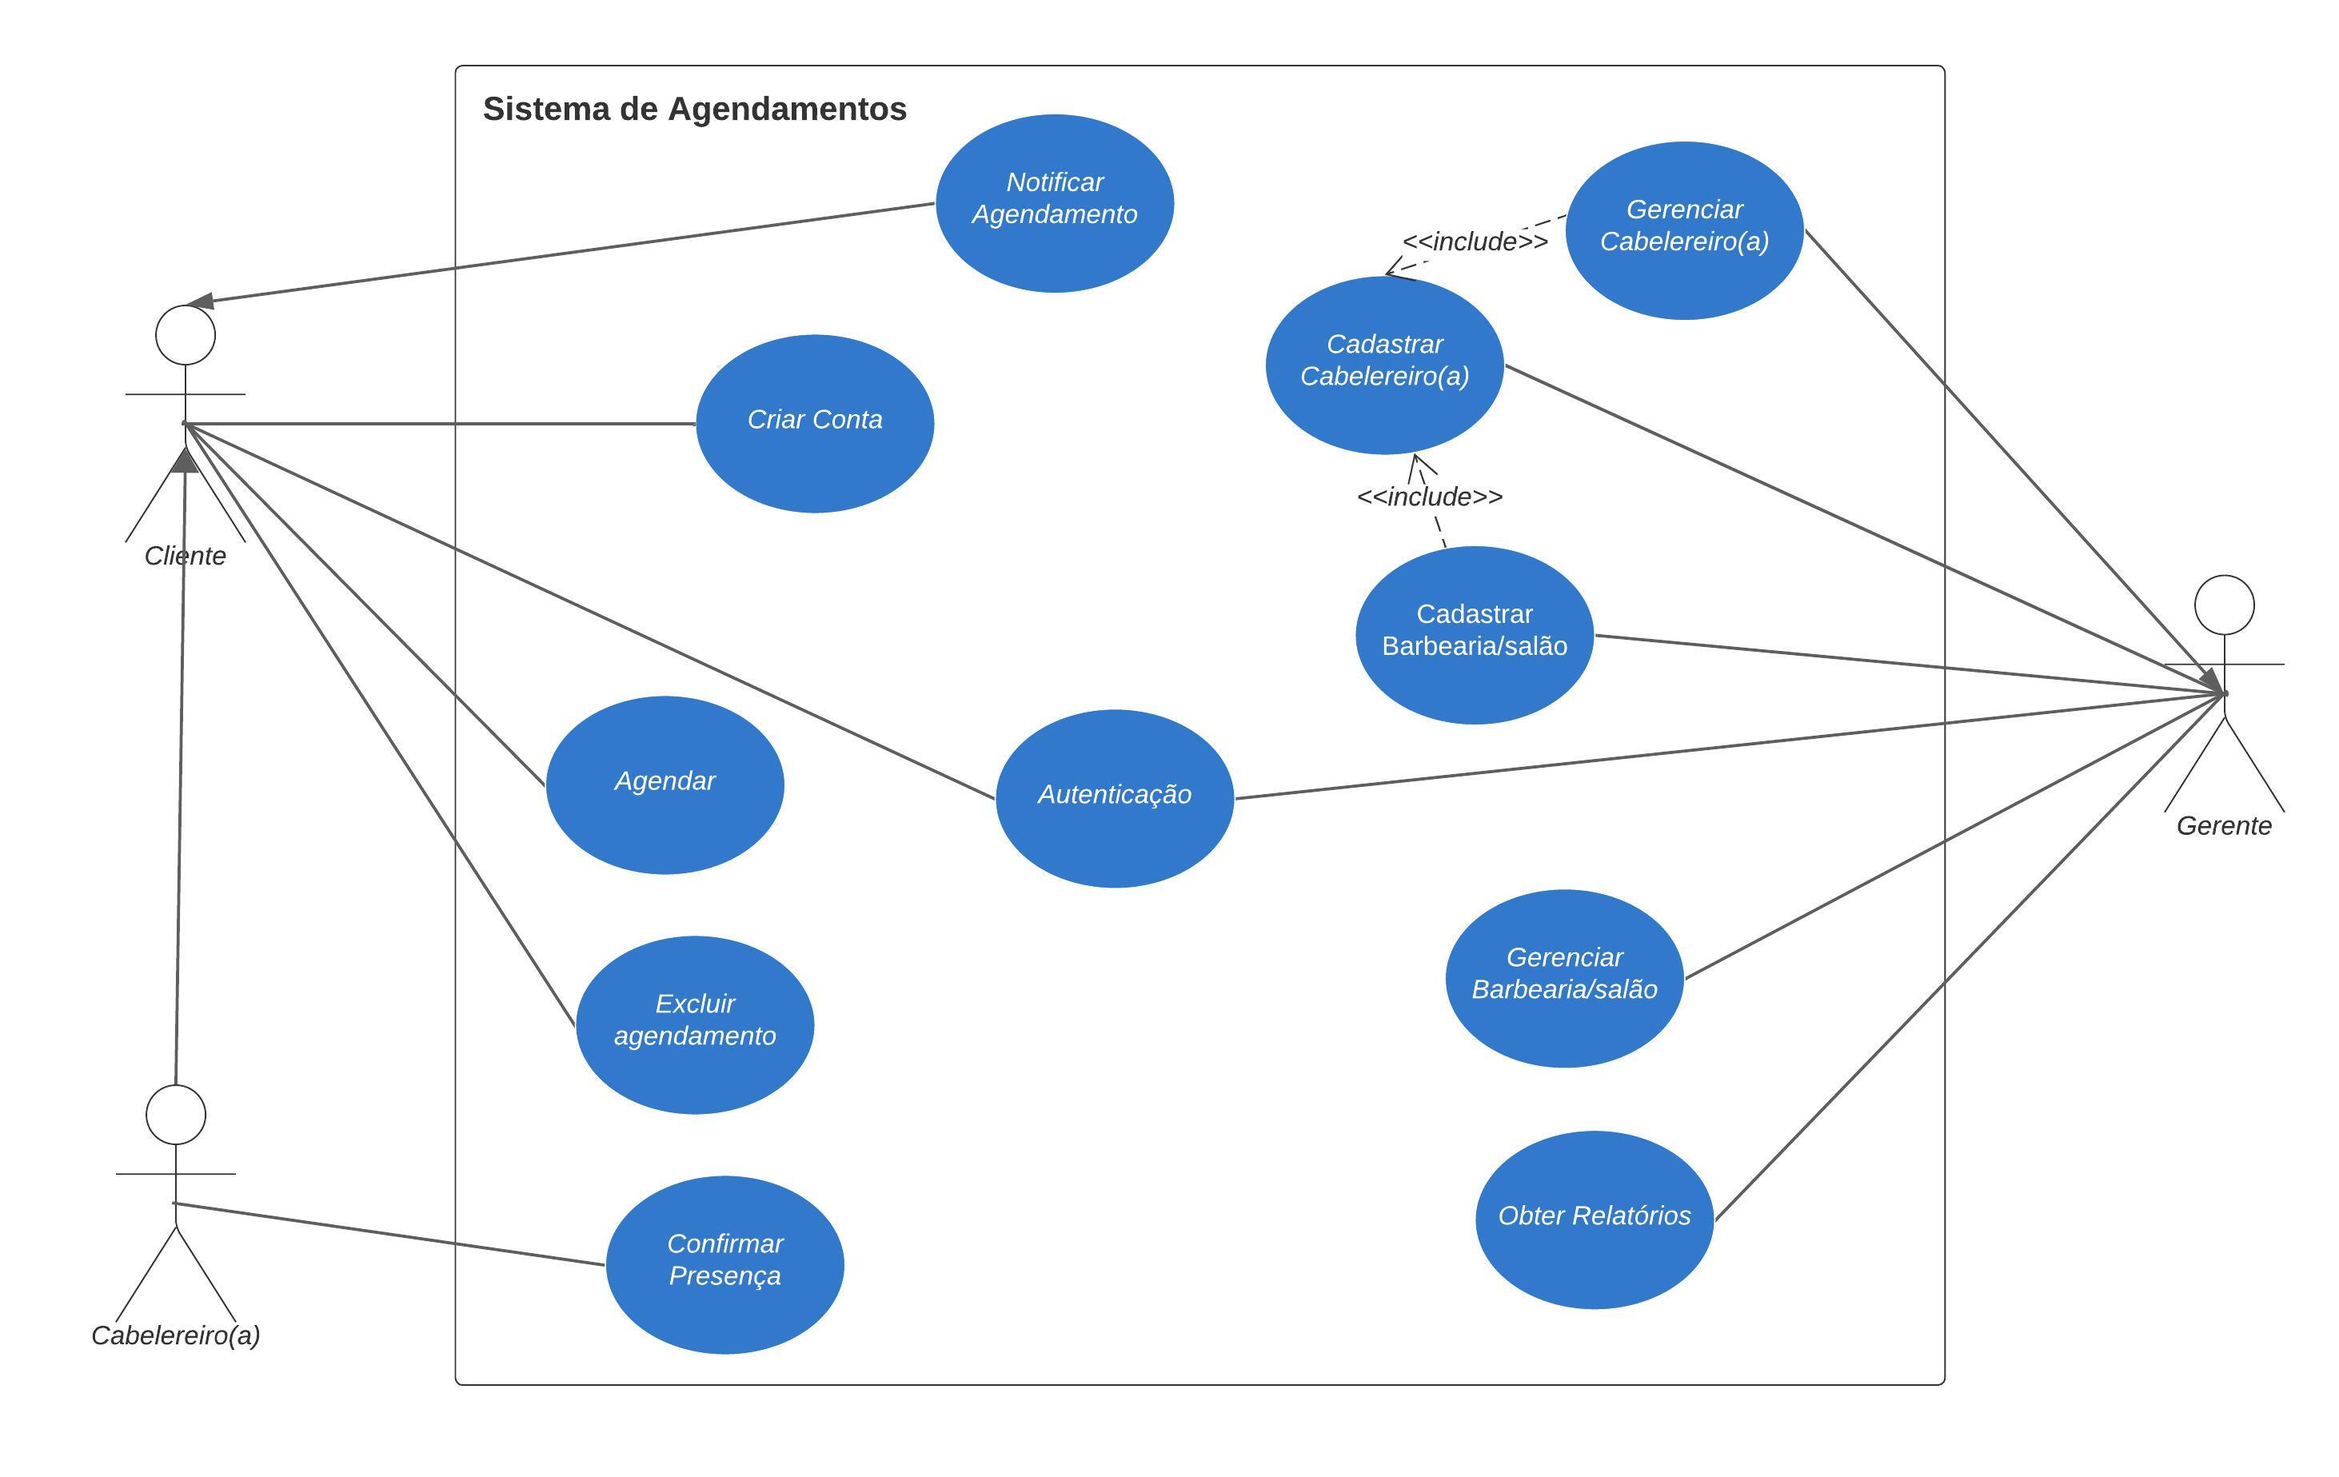
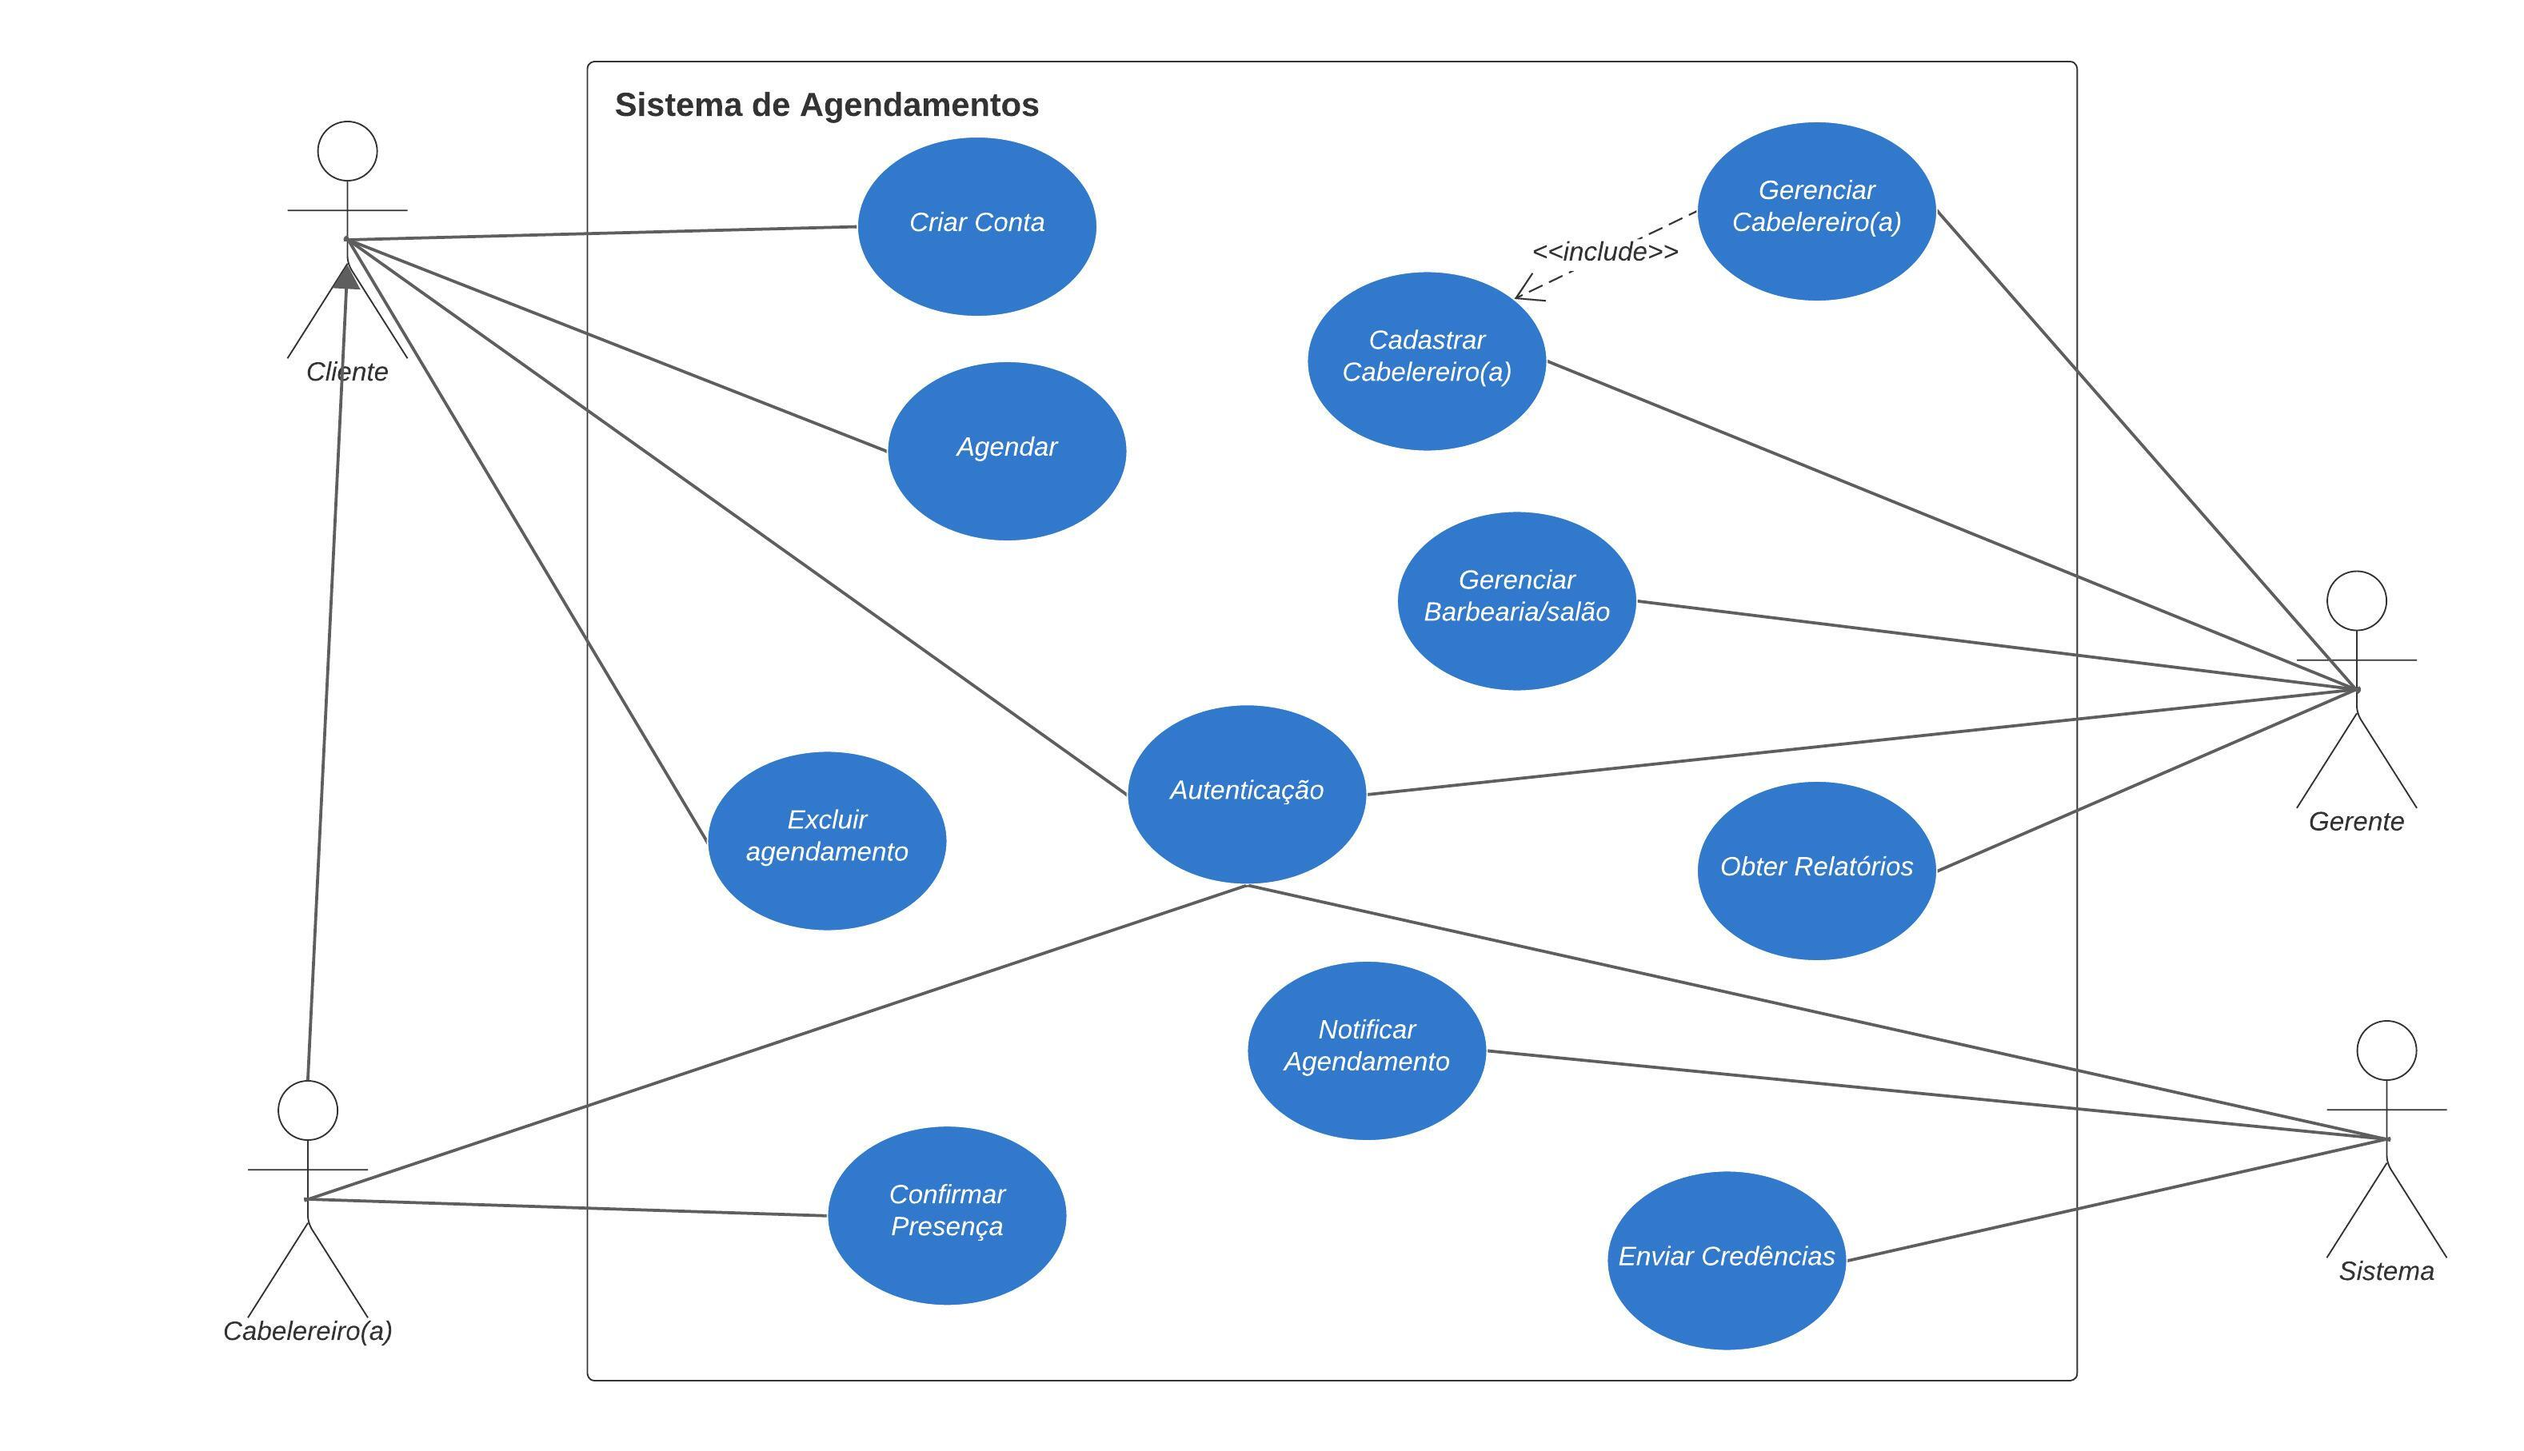
realizando alterações indicadas na PR

diff --git a/topicos/engenharia_requisitos/engenharia_requisitos.md b/topicos/engenharia_requisitos/engenharia_requisitos.md
@@ -22,17 +22,16 @@ Neste arquivo serão apresentados os`diagrama de casos de uso`, `casos de uso` e
   *extensões*:
   - 3a. se o cpf for invalido, informar um novo;
   - 2a. informar se o username colocado já está em uso;
-  - 5a. a senha será aceita se conter um caractere especial, uma letra maiúscula e uma minúscula e no mínimo um número.
+  - 5a. se a senha informada não estiver no formato correto (conter um caractere, uma letra em maiusculo e um número), informar novamente a senha.
   
 > **AGENDAR**:
 
   *fluxo normal*
-  1. Cliente poderá fazer uma filtragem das barbearias/salões(região, se está aberta, preço e serviços);
-  2. Cliente escolhe uma barbearia/salão;
-  3. Cliente clica na função de agendar;
-  4. Cliente escolhe os tipos de serviços (tipo do corte, qual cabelereiro(a), etc);
-  5. Cliente visualiza o preço total e o tempo estimado para os serviços selecionados;
-  6. Cliente escolhe seu horário e confirma;
+  1. Cliente clica na função de agendar;
+  2. Cliente escolhe os tipos de serviços;
+  3. Cliente escolhe o cabelereiro(a) de sua preferência.
+  3. Cliente visualiza o preço total e o tempo estimado para os serviços selecionados;
+  4. Cliente escolhe seu horário e confirma;
 
 > **EXCLUIR AGENDAMENTO**
 
@@ -44,37 +43,26 @@ Neste arquivo serão apresentados os`diagrama de casos de uso`, `casos de uso` e
 
 **Ator: gerente**
 
->**ADICIONAR BARBEARIA/SALÂO**
-
-  *fluxo normal*
-  1. O gerente acessa a página de criação de conta e seleciona a opção de gerência.
-  2. O gerente informa o seu username;
-  3. O gerente informa a senha.
-  4. O gerente informa o cnpj da barbearia/salão;
-  5. O gerente informa o nome da barbearia/salão;
-  6. O gerente informa o endereço da barbearia/salão;
-  7. O gerente informa o horário de funcionamento da barbearia/salão;
-  8. <u>__cadastrar barbeiro(a)__</u>
-
 >**CADASTRAR CABELEREIRO(A)**
 
   *fluxo normal*
   1. O gerente acessa o painel de administração do sistema.
   2. O gerente acessa a seção de cabelereiros;
   3. O gerente clica na funcionalidade de adicionar um novo cabelereiro;
-  2. gerente informa nome do Cabelereiro(a);
-  3. gerente informa os horarios do Cabelereiro(a);
-  4. gerente informa a clasificação do Cabelereiro(a);
-  5. gerente informa os tipos de serviços que o Cabelereiro(a) possui incluindo as estimativas de tempo;
+  4. gerente informa nome do Cabelereiro(a);
+  5. O gerente informa o cpf do cabelereiro(a);
+  6. O gerente informa os horarios do Cabelereiro(a);
+  7. O gerente informa a clasificação do Cabelereiro(a);
+  8. O gerente informa os tipos de serviços que o Cabelereiro(a) possui incluindo as estimativas de tempo;
+  9. O gerente confirma cadastramento do cabelereiro.
+  10. __ENVIAR CREDÊNCIAIS__
 
 >**GERENCIAR BARBEARIA/SALÃO**
 
   *fluxo normal*
   1. O gerente acessa o painel de administração do sistema.
   2. O gerente realiza as alterações desejadas, como atualização de horários de funcionamento, preços de serviços ou informações de contato.
-  3. O gerente poderá excluir a barbearia/salão.
-  4. O sistema solicita confirmação antes de efetuar a exclusão.
-  5. O sistema remove a barbearia/salão do registro.
+  3. O sistema solicita confirmação antes de efetuar a edição dos dados.
 
 >**GERENCIAR CABELEREIRO(A)**
 
@@ -129,6 +117,17 @@ Neste arquivo serão apresentados os`diagrama de casos de uso`, `casos de uso` e
   6. Se as credenciais são válidas, o sistema autentica o usuário e redireciona para a página inicial personalizada.
   7. Se as credenciais são inválidas, o sistema exibe uma mensagem de erro indicando que a autenticação falhou.
 
+  *extensões*:
+  6. se o usuário for um cabelereiro(a), caso o cpf do cabelereiro(a) não esteja cadastrado no sistema ele não conseguirá realizar o login.
+
+>**ENVIAR CREDÊNCIAIS**
+
+  *fluxo normal*
+  1. O sistema gerará um username com base no nome do cabelereiro(a).
+  2. O sistema gerará uma senha aleatória.
+  3. a tupla de username e senha será enviado para o email do cabelereiro(a).
+  
+
 ## Histórias de Usuário (US)
 
 > cliente
@@ -163,29 +162,10 @@ Neste arquivo serão apresentados os`diagrama de casos de uso`, `casos de uso` e
 4. Após a confirmação, o agendamento selecionado deve ser removido da lista de agendamentos do cliente.
 5. O sistema deve fornecer um feedback claro para o cliente indicando que o agendamento foi excluído com sucesso.
 
-
-- VISUALIZAR BARBEARIA/SALÃO;
-"Como cliente, gostaria de poder visualizar as barbearias/salões que estão aberto em tal horário, dia ou região"
-- Critério de aceitação: 
-1. O cliente deve ter a opção de filtrar barbearias/salões por horário de funcionamento, escolhendo uma data e horário específicos.
-2. O sistema deve apresentar uma lista clara e organizada de barbearias/salões disponíveis com base nos critérios de horário, dia e região selecionados.
-3. Cada barbearia/salão listado deve exibir informações relevantes, como nome, endereço, horário de funcionamento e serviços oferecidos.
-4. O sistema deve fornecer a opção de ordenar a lista de barbearias/salões por critérios como proximidade, avaliações ou popularidade.
-5. Caso não haja barbearias/salões disponíveis que atendam aos critérios selecionados, o sistema deve informar ao cliente de forma clara.
 ```
 
 > Gerente
-```txt
-
-  - CADASTRO DE BARBEARIAS/SALÕES
-  "Como gerente, gostaria de cadastrar novas barbearias/salões, ao qual posso informar os horarios de funcionamento, preços dos serviços ofertados, cadastro de Cabelereiros(as)"
-  - Critério de aceitação: 
-  1. O gerente deve ter a opção de acessar uma área específica para cadastrar novas barbearias/salões.
-  2. Ao cadastrar uma nova barbearia/salão, o gerente deve fornecer informações como nome, endereço e detalhes de contato.
-  3. O sistema deve permitir ao gerente definir os horários de funcionamento da barbearia/salão, incluindo dias e horas de atendimento.
-  4. O gerente deve ter a opção de cadastrar os preços dos serviços oferecidos, indicando o nome do serviço e o valor correspondente.
-  5. Deve ser possível cadastrar novos cabeleireiros(as), incluindo informações como nome, especialidade e horários de disponibilidade.
-  
+```txt  
   - OBTER RELATÓRIOS
   "Como gerente, gostaria de poder obter um relatório de dados com vendas e servicos ofertados em periodos específicos de funcionamento de cada barbearia/salão"
   - Critério de aceitação: 
@@ -200,8 +180,18 @@ Neste arquivo serão apresentados os`diagrama de casos de uso`, `casos de uso` e
   - EDITAR DADOS DA BARBEARIA/SALÃO
   "Como Gerente, gostaria de editar os preços dos serviços ofertados pela mimha/meu barbearia/salão, além de excluir Cabelereiros(as) existentes e adicionar novos"
   - Critério de aceitação: 
-  1. O sistema deve fornecer uma funcionalidade para o gerente editar ou atualizar as informações de uma barbearia/salão já cadastrada.
-  2. O sistema deve fornecer uma funcionalidade para o gerente excluir uma barbearia/salão que não esteja mais ativa ou que tenha sido cadastrada erroneamente.
+  1. O sistema deve fornecer uma funcionalidade para o gerente editar ou atualizar as informações da barbearia/salão.
+
+  - EDITAR DADOS DOS CABELEREIROS(AS)
+  "Como gerente, gostaria de atualizar dados dos cabelereiros(as) da minha barbearia/salão"
+  - Critérios de aceitação:
+  1. O gerente deve ter acesso ao painel de administração do sistema.
+  2. O sistema deve exibir uma lista dos cabeleireiros(as) associados à barbearia/salão.
+  3. O gerente deve ser capaz de selecionar um cabeleireiro(a) da lista para editar.
+  4. O sistema deve apresentar os dados do cabeleireiro(a) selecionado em um formulário editável.
+  5. O gerente pode realizar as alterações desejadas nos dados do cabeleireiro(a).
+  6. O sistema deve fornecer uma opção para salvar as alterações feitas nos dados do cabeleireiro(a).
+  7. Após salvar as alterações, o sistema deve exibir uma confirmação de que os dados foram atualizados com sucesso.
   
 ```
 
